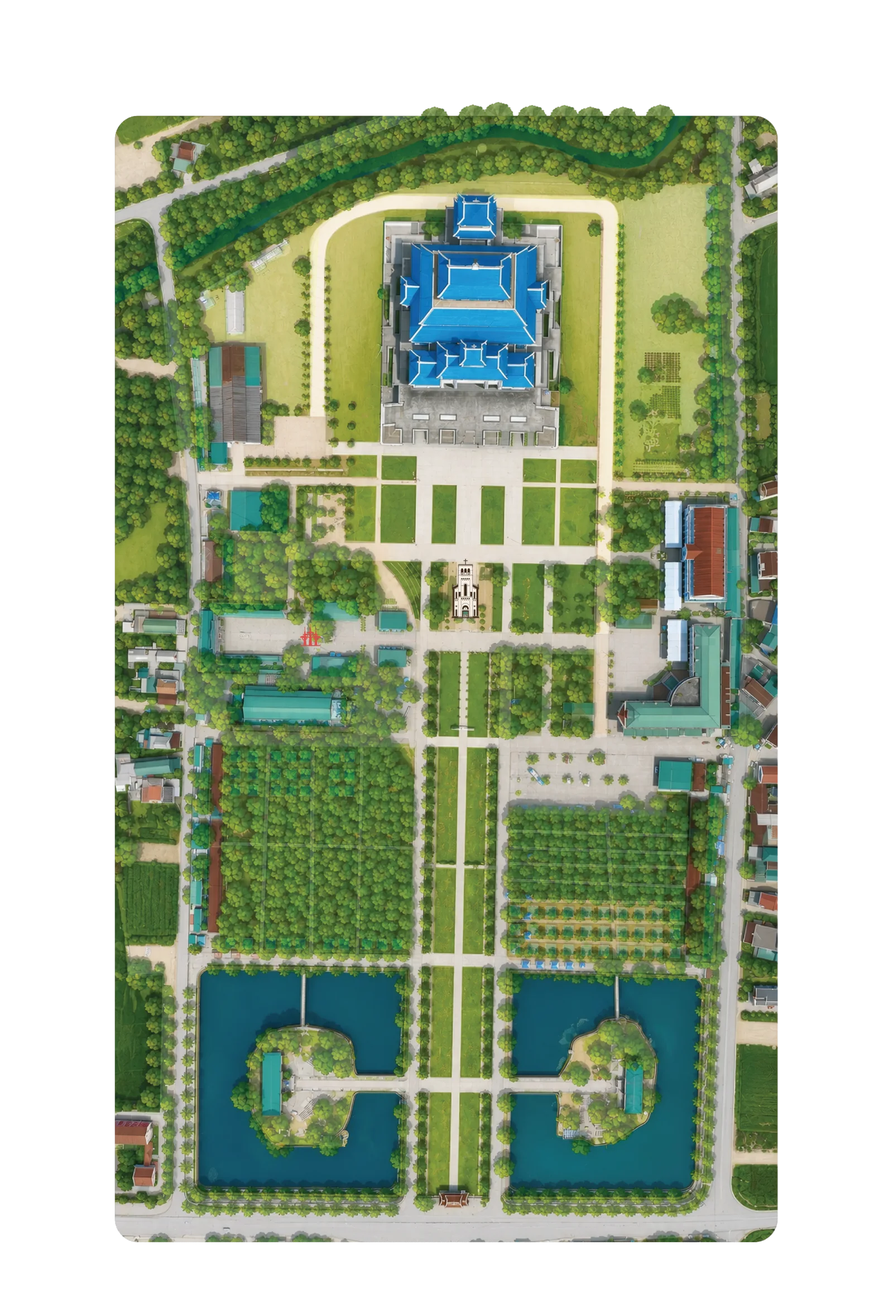
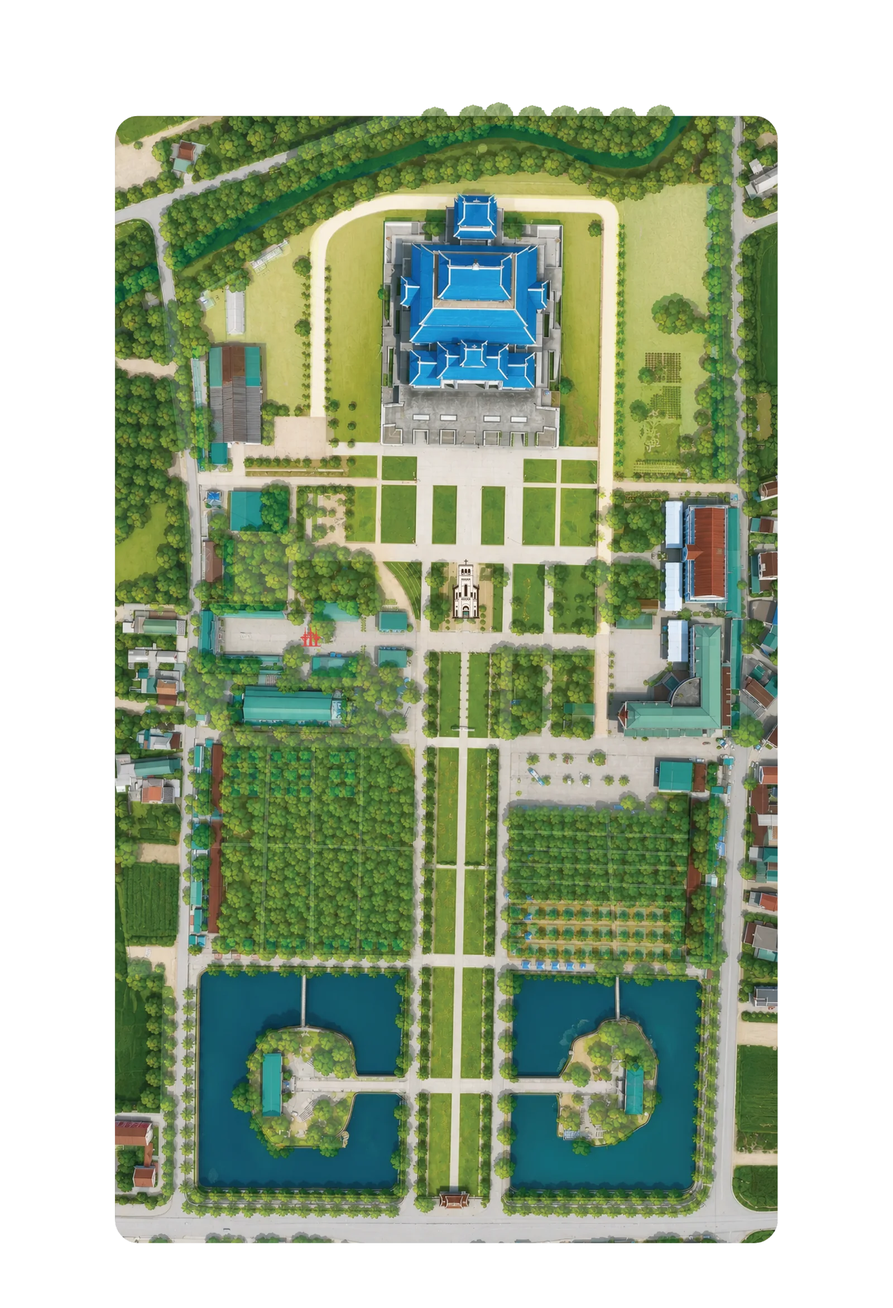
Dựng lối đi từ street.webp, thêm POI, nhãn theo độ nổi bật
1. Walkmask từ MẠNG ĐƯỜNG ĐỎ Felix vẽ (street.webp) thay cho đoán màu mặt lát:
   phát hiện nét đỏ ở full-res, gộp xuống lưới 360x526 kiểu max, nở 2 ô thành
   hành lang. Router: 0/45 điểm thất bại, 0 tuyến vòng xa (>x2.2); nhà hành
   hương -> cổng phụ 2 còn 32m (x1.02, trước x nhiều do lỗ hổng).

2. Thêm 7 POI từ "map label add" (đo từ chấm đỏ): Ban kèn trống, Trại TNTT,
   Nhà vệ sinh 6, và 4 điểm "Xin lễ · xin khấn". Thêm icon MusicNote, Diversity3.

3. Nhãn theo độ nổi bật: điểm prominent hiện title ngay ở zoom mặc định, điểm
   thường chỉ hiện chấm icon, zoom gần (>=18.3) mới hiện title dần (né chồng).
   Prominent: Vương Cung, Nhà nguyện, Linh đài, Trại trật tự, Trại y tế + toàn
   bộ điểm trong map label add. Hết chồng chéo 46 nhãn -> 7 title gọn.

4. Đổi tên: Khu giải tội -> Nơi lãnh nhận bí tích hòa giải; Khu các thánh tử
   đạo -> Quảng trường các thánh tử đạo.

5. Cập nhật artwork nội khu từ map tree.webp mới (khung khớp POI, lệch <0.5%).

diff --git a/src/data/walkmask.js b/src/data/walkmask.js
@@ -1,18 +1,15 @@
-// Mặt nạ lối đi bộ, sinh tự động từ "map no tree" (xem scripts/gen-mask.mjs).
-// Lưới 320x468 phủ toàn ảnh; mỗi ô ~1.62m. Bit 1 = đi được.
-// Phân loại theo màu mặt lát be ấm, giữ thành phần liên thông lớn nhất.
-export const MASK_W = 320
-export const MASK_H = 468
[1 lines of base64/hex data omitted]
+// Mặt nạ lối đi bộ, sinh từ mạng đường đỏ trong street.webp (xem scripts/gen-mask.mjs).
+// Lưới 360x526 phủ toàn ảnh; mỗi ô ~1.44m. Bit 1 = đi được.
+export const MASK_W = 360
+export const MASK_H = 526
[1 lines of base64/hex data omitted]
 
 let cache = null
 export function getWalkMask() {
   if (cache) return cache
   const bin = atob(PACKED)
   const bits = new Uint8Array(MASK_W * MASK_H)
-  for (let i = 0; i < bits.length; i++) {
-    bits[i] = (bin.charCodeAt(i >> 3) >> (i & 7)) & 1
-  }
+  for (let i = 0; i < bits.length; i++) bits[i] = (bin.charCodeAt(i >> 3) >> (i & 7)) & 1
   cache = bits
   return bits
 }

diff --git a/src/data/pois.js b/src/data/pois.js
@@ -14,15 +14,20 @@ export const CATEGORIES = {
 export const POIS = [
   // --- Hành hương ---
   { id: 'duc-me-suoi', name: 'Đức Mẹ Suối', icon: 'Water', cat: 'hanhhuong', u: 0.5381, v: 0.1227 },
-  { id: 'vuong-cung-thanh-duong', name: 'Vương Cung Thánh Đường', icon: 'Church', cat: 'hanhhuong', u: 0.528, v: 0.3024 },
-  { id: 'khu-tu-dao', name: 'Khu các thánh tử đạo', icon: 'AccountBalance', cat: 'hanhhuong', u: 0.236, v: 0.4914 },
-  { id: 'linh-dai', name: 'Linh đài', icon: 'Church', cat: 'hanhhuong', u: 0.3445, v: 0.4898 },
+  { id: 'vuong-cung-thanh-duong', name: 'Vương Cung Thánh Đường', icon: 'Church', cat: 'hanhhuong', u: 0.528, v: 0.3024, prominent: true },
+  { id: 'khu-tu-dao', name: 'Quảng trường các thánh tử đạo', icon: 'AccountBalance', cat: 'hanhhuong', u: 0.236, v: 0.4914 },
+  { id: 'linh-dai', name: 'Linh đài', icon: 'Church', cat: 'hanhhuong', u: 0.3445, v: 0.4898, prominent: true },
   { id: 'nha-chau-thanh-the', name: 'Nhà Chầu Thánh Thể', icon: 'Church', cat: 'hanhhuong', u: 0.3015, v: 0.5212 },
   { id: 'thap-co', name: 'Tháp cổ', icon: 'AccountBalance', cat: 'hanhhuong', u: 0.524, v: 0.4599 },
-  { id: 'nha-nguyen', name: 'Nhà nguyện', icon: 'Church', cat: 'hanhhuong', u: 0.3726, v: 0.547 },
+  { id: 'nha-nguyen', name: 'Nhà nguyện', icon: 'Church', cat: 'hanhhuong', u: 0.3726, v: 0.547, prominent: true },
   { id: 'gieng-duc-me', name: 'Giếng Đức Mẹ', icon: 'WaterDrop', cat: 'hanhhuong', u: 0.4439, v: 0.5482 },
   { id: 'duc-me-ban-on', name: 'Đức Mẹ Ban Ơn', icon: 'Church', cat: 'hanhhuong', u: 0.5892, v: 0.5446 },
-  { id: 'khu-giai-toi', name: 'Khu giải tội', icon: 'VolunteerActivism', cat: 'hanhhuong', u: 0.3092, v: 0.8231 },
+  { id: 'khu-giai-toi', name: 'Nơi lãnh nhận bí tích hòa giải', icon: 'VolunteerActivism', cat: 'hanhhuong', u: 0.3092, v: 0.8231 },
+  // Xin lễ · xin khấn (4 điểm) — bổ sung từ map label add
+  { id: 'xin-le-1', name: 'Xin lễ · xin khấn (Linh đài)', icon: 'VolunteerActivism', cat: 'hanhhuong', u: 0.318, v: 0.4509, prominent: true },
+  { id: 'xin-le-2', name: 'Xin lễ · xin khấn (Nhà hành hương)', icon: 'VolunteerActivism', cat: 'hanhhuong', u: 0.7074, v: 0.4776, prominent: true },
+  { id: 'xin-le-3', name: 'Xin lễ · xin khấn (Nhà nguyện)', icon: 'VolunteerActivism', cat: 'hanhhuong', u: 0.3354, v: 0.522, prominent: true },
+  { id: 'xin-le-4', name: 'Xin lễ · xin khấn (Giếng Đức Mẹ)', icon: 'VolunteerActivism', cat: 'hanhhuong', u: 0.4038, v: 0.5334, prominent: true },
 
   // --- Tòa nhà & khu vực ---
   { id: 'nha-trung-tam', name: 'Nhà trung tâm', icon: 'Domain', cat: 'toanha', u: 0.7972, v: 0.4256 },
@@ -36,8 +41,10 @@ export const POIS = [
   { id: 'cong-phu-4', name: 'Cổng phụ 4', icon: 'DoorFront', cat: 'toanha', u: 0.2454, v: 0.365 },
 
   // --- Hỗ trợ & y tế ---
-  { id: 'trai-trat-tu', name: 'Trại trật tự trung tâm', icon: 'Shield', cat: 'hotro', u: 0.6695, v: 0.5482 },
-  { id: 'trai-y-te', name: 'Trại y tế', icon: 'LocalHospital', cat: 'hotro', u: 0.7457, v: 0.6066 },
+  { id: 'trai-trat-tu', name: 'Trại trật tự trung tâm', icon: 'Shield', cat: 'hotro', u: 0.6695, v: 0.5482, prominent: true },
+  { id: 'trai-y-te', name: 'Trại y tế', icon: 'LocalHospital', cat: 'hotro', u: 0.7457, v: 0.6066, prominent: true },
+  { id: 'ban-ken-trong', name: 'Ban kèn trống', icon: 'MusicNote', cat: 'hotro', u: 0.6959, v: 0.3474, prominent: true },
+  { id: 'trai-tntt', name: 'Trại TNTT', icon: 'Diversity3', cat: 'hotro', u: 0.6959, v: 0.3974, prominent: true },
 
   // --- Tiện ích: nhà vệ sinh ---
   { id: 'nha-ve-sinh-1', name: 'Nhà vệ sinh 1', icon: 'Wc', cat: 'tienich', u: 0.219, v: 0.6354 },
@@ -45,6 +52,7 @@ export const POIS = [
   { id: 'nha-ve-sinh-3', name: 'Nhà vệ sinh 3', icon: 'Wc', cat: 'tienich', u: 0.8161, v: 0.4801 },
   { id: 'nha-ve-sinh-4', name: 'Nhà vệ sinh 4', icon: 'Wc', cat: 'tienich', u: 0.8021, v: 0.2831 },
   { id: 'nha-ve-sinh-5', name: 'Nhà vệ sinh 5', icon: 'Wc', cat: 'tienich', u: 0.2219, v: 0.3288 },
+  { id: 'nha-ve-sinh-6', name: 'Nhà vệ sinh 6', icon: 'Wc', cat: 'tienich', u: 0.2313, v: 0.5376, prominent: true },
 
   // --- Tiện ích: sạc điện thoại ---
   { id: 'sac-1', name: 'Sạc điện thoại 1', icon: 'ChargingStation', cat: 'tienich', u: 0.3015, v: 0.7202 },

diff --git a/src/components/MapView.jsx b/src/components/MapView.jsx
@@ -305,12 +305,17 @@ export default function MapView({
     const visible = lowZoom ? [] : pois
     const map = mapRef.current
 
-    // Quyết định POI nào được kèm chữ: luôn hiện chấm, chỉ hiện title khi không đè
-    // nhãn đã đặt (ưu tiên nhóm quan trọng + điểm đang chọn). Zoom gần -> nhiều chữ.
+    // Chọn POI kèm chữ: luôn hiện chấm. Ở zoom mặc định chỉ ĐIỂM NỔI BẬT mới có
+    // title; zoom gần (>= REVEAL_ZOOM) thì điểm thường cũng hiện dần (né chồng).
+    const REVEAL_ZOOM = 18.3
     const CAT_PRIO = { hanhhuong: 5, toanha: 4, hotro: 4, giaothong: 3, tienich: 2 }
     const z = map ? map.getZoom() : 17
     const ranked = visible
-      .map((poi) => ({ poi, prio: (poi.id === selectedPoiId ? 100 : 0) + (CAT_PRIO[poi.cat] ?? 1) }))
+      .filter((poi) => poi.id === selectedPoiId || poi.prominent || z >= REVEAL_ZOOM)
+      .map((poi) => ({
+        poi,
+        prio: (poi.id === selectedPoiId ? 1000 : 0) + (poi.prominent ? 100 : 0) + (CAT_PRIO[poi.cat] ?? 1),
+      }))
       .sort((a, b) => b.prio - a.prio)
     const tagRects = []
     const withTag = new Set()
@@ -318,7 +323,6 @@ export default function MapView({
       if (!map) break
       const p = map.project(uvToLatLng(frame, poi.u, poi.v), z)
       const w = poi.name.length * 6.4 + 44 // chấm + chữ (px)
-      // nhãn nằm bên phải chấm
       const rect = { left: p.x - 16, right: p.x + w - 16, top: p.y - 12, bottom: p.y + 12 }
       const hit = tagRects.some((r) =>
         !(rect.right + 3 < r.left || rect.left - 3 > r.right || rect.bottom + 2 < r.top || rect.top - 2 > r.bottom))

diff --git a/src/components/iconPaths.js b/src/components/iconPaths.js
@@ -39,4 +39,6 @@ export const ICON_PATHS = {
   VolunteerActivism: 'M1 11h4v11H1zm15-7.75C16.65 2.49 17.66 2 18.7 2 20.55 2 22 3.45 22 5.3c0 2.27-2.91 4.9-6 7.7-3.09-2.81-6-5.44-6-7.7C10 3.45 11.45 2 13.3 2c1.04 0 2.05.49 2.7 1.25zM20 17h-7l-2.09-.73.33-.94L13 16h2.82c.65 0 1.18-.53 1.18-1.18 0-.49-.31-.93-.77-1.11L8.97 11H7v9.02L14 22l8.01-3c-.01-1.1-.9-2-2.01-2z',
   DirectionsBus: 'M4 16c0 .88.39 1.67 1 2.22V20c0 .55.45 1 1 1h1c.55 0 1-.45 1-1v-1h8v1c0 .55.45 1 1 1h1c.55 0 1-.45 1-1v-1.78c.61-.55 1-1.34 1-2.22V6c0-3.5-3.58-4-8-4s-8 .5-8 4v10zm3.5 1c-.83 0-1.5-.67-1.5-1.5S6.67 14 7.5 14s1.5.67 1.5 1.5S8.33 17 7.5 17zm9 0c-.83 0-1.5-.67-1.5-1.5s.67-1.5 1.5-1.5 1.5.67 1.5 1.5-.67 1.5-1.5 1.5zm1.5-6H6V6h12v5z',
   LocalParking: 'M13 3H6v18h4v-6h3c3.31 0 6-2.69 6-6s-2.69-6-6-6zm.2 8H10V7h3.2c1.1 0 2 .9 2 2s-.9 2-2 2z',
+  MusicNote: 'M12 3v10.55c-.59-.34-1.27-.55-2-.55-2.21 0-4 1.79-4 4s1.79 4 4 4 4-1.79 4-4V7h4V3h-6z',
+  Diversity3: 'M6.32 13.01c.96.02 1.85.5 2.45 1.34A3.961 3.961 0 0 0 12 16c1.29 0 2.5-.62 3.23-1.66.6-.84 1.49-1.32 2.45-1.34-.72-1.22-3.6-2-5.68-2-2.07 0-4.96.78-5.68 2.01zM4 13c1.66 0 3-1.34 3-3S5.66 7 4 7s-3 1.34-3 3 1.34 3 3 3zm16 0c1.66 0 3-1.34 3-3s-1.34-3-3-3-3 1.34-3 3 1.34 3 3 3zm-8-3c1.66 0 3-1.34 3-3s-1.34-3-3-3-3 1.34-3 3 1.34 3 3 3z M21 14h-3.27c-.77 0-1.35.45-1.68.92-.04.06-1.36 2.08-4.05 2.08-1.43 0-3.03-.64-4.05-2.08-.39-.55-1-.92-1.68-.92H3c-1.1 0-2 .9-2 2v4h7v-2.26c1.15.8 2.54 1.26 4 1.26s2.85-.46 4-1.26V20h7v-4c0-1.1-.9-2-2-2z',
 }
